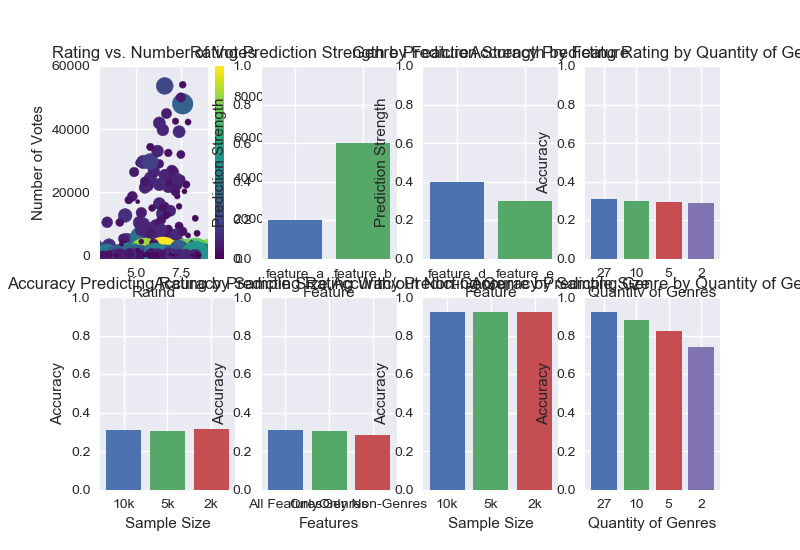
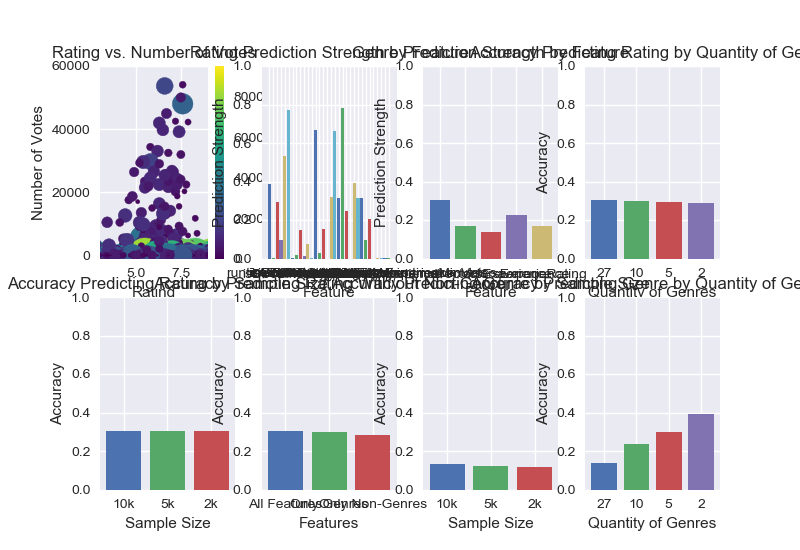
Fix cv

diff --git a/sources/validate.py b/sources/validate.py
@@ -14,7 +14,7 @@ def kfoldscv(model,k,X,y):
     X = X.reshape(len(X), len(X[0]) if len(X[0]) > 0 else 1)
     y = y.values
     y = np.asarray(y)
-    y = y.reshape(len(y), len(y[0]) if len(y.shape) > 1 else 1)
+    #y = y.reshape(len(y), len(y[0]) if len(y.shape) > 1 else 1)
     print(y)
     print(X.shape)
     print(y.shape)
@@ -69,23 +69,21 @@ def kfoldscv(model,k,X,y):
 
         print("X_Train: " + str(X_train.shape))
         print("Y_train: " + str(Y_train.shape))
-        model.fit(X_train, Y_train)
+        model.fit(X_train, np.atleast_1d(Y_train))
 
         print("X_Test: " + str(X_test.shape))
         print("Y_test: " + str(Y_test.shape))
-        predictions = model.predict(X_test)
+        predictions = np.atleast_1d(model.predict(X_test))
+
 
         correct = 0.0
         for j, prediction in enumerate(predictions):
 #            print(prediction)
 #            print(Y_test[(j+i) - 1])
-            if len(y[0]) > 1 and not any(abs(prediction - Y_test[j])):
-                if j % 1000:
-                    print("genre")
-                correct += 1
-            elif abs(prediction[0] - Y_test[j][0]) < 0.5:
-                if j % 1000:
-                    print("rating")
+            if len(y[0]) > 1:
+                if not any(abs(prediction - Y_test[j])):
+                    correct += 1
+            elif abs(prediction - Y_test[j]) < 0.5:
                 correct += 1
             if j % 100 == 0:
                 pass

diff --git a/sources/rating.py b/sources/rating.py
@@ -1,6 +1,7 @@
 #!/usr/bin/env python3
 import mord
 from sklearn import linear_model, metrics, preprocessing
+from sklearn import svm
 import pandas
 import random
 
@@ -25,9 +26,10 @@ def train_rating(data):
     train_y, test_y = y[:split], y[split:]
 
     model = linear_model.LinearRegression(fit_intercept=True)
+    model = svm.SVR(kernel="linear", gamma="auto")
 
-    k = 3
-    kfoldscv(model, k, X, y)
+    k = 10
+    z = kfoldscv(model, k, X, y)
 
     model.fit(train_X, train_y)
     predictions = model.predict(test_X)
@@ -39,4 +41,6 @@ def train_rating(data):
 
     correct = correct / len(predictions)
 
-    return {"strengths": {"feature_a": 0.2, "feature_b": 0.6}, "accuracy": correct}
+    coef = model.coef_
+    strengths = {feature:abs(coef[i]) for i, feature in enumerate(X.columns.tolist())}
+    return {"strengths": strengths, "accuracy": sum(z)/len(z)}

diff --git a/sources/genre.py b/sources/genre.py
@@ -43,6 +43,8 @@ def train_genres(data):
     train_y, test_y = y[:split], y[split:]
 
     model = tree.DecisionTreeClassifier()
+    k = 10
+    accuracy = kfoldscv(model, k, X, y)
 
     model.fit(train_X, train_y)
     predictions = model.predict(test_X)
@@ -64,7 +66,7 @@ def train_genres(data):
     perfect = perfect / len(predictions)
     #  print("Perfect: {}%".format(perfect))
 
-    k = 2
-    accuracy = kfoldscv(model, k, X, y)
 
-    return {"strengths": {"feature_d": 0.4, "feature_e": 0.3}, "accuracy": correct}
+    coef = model.feature_importances_
+    strengths = {feature:abs(coef[i]) for i, feature in enumerate(X.columns.tolist())}
+    return {"strengths": strengths, "accuracy": sum(accuracy)/len(accuracy)}
